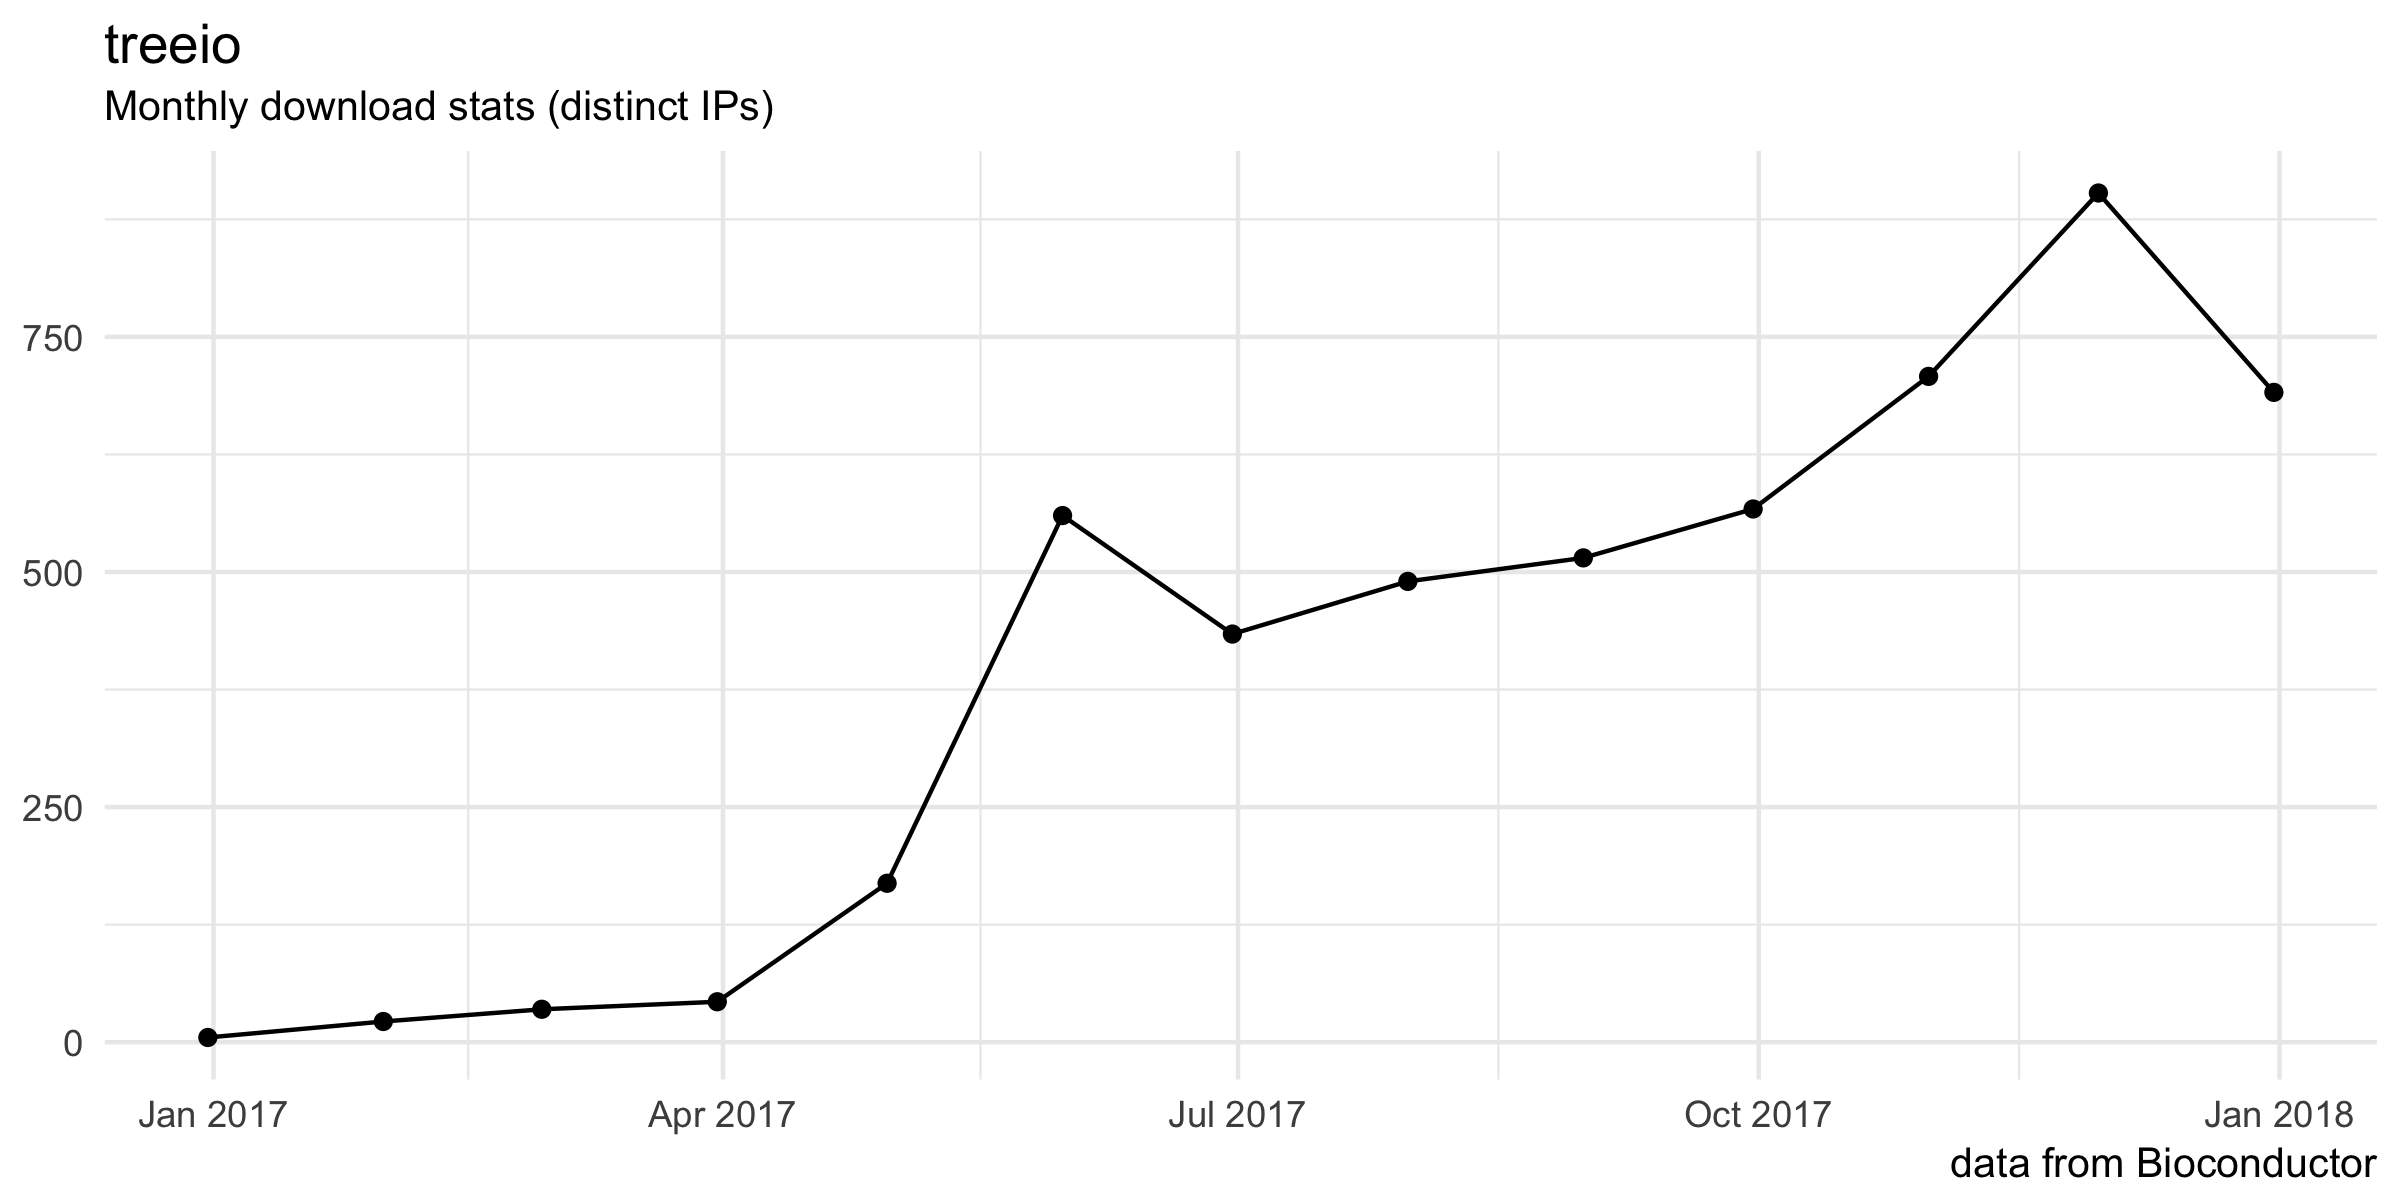
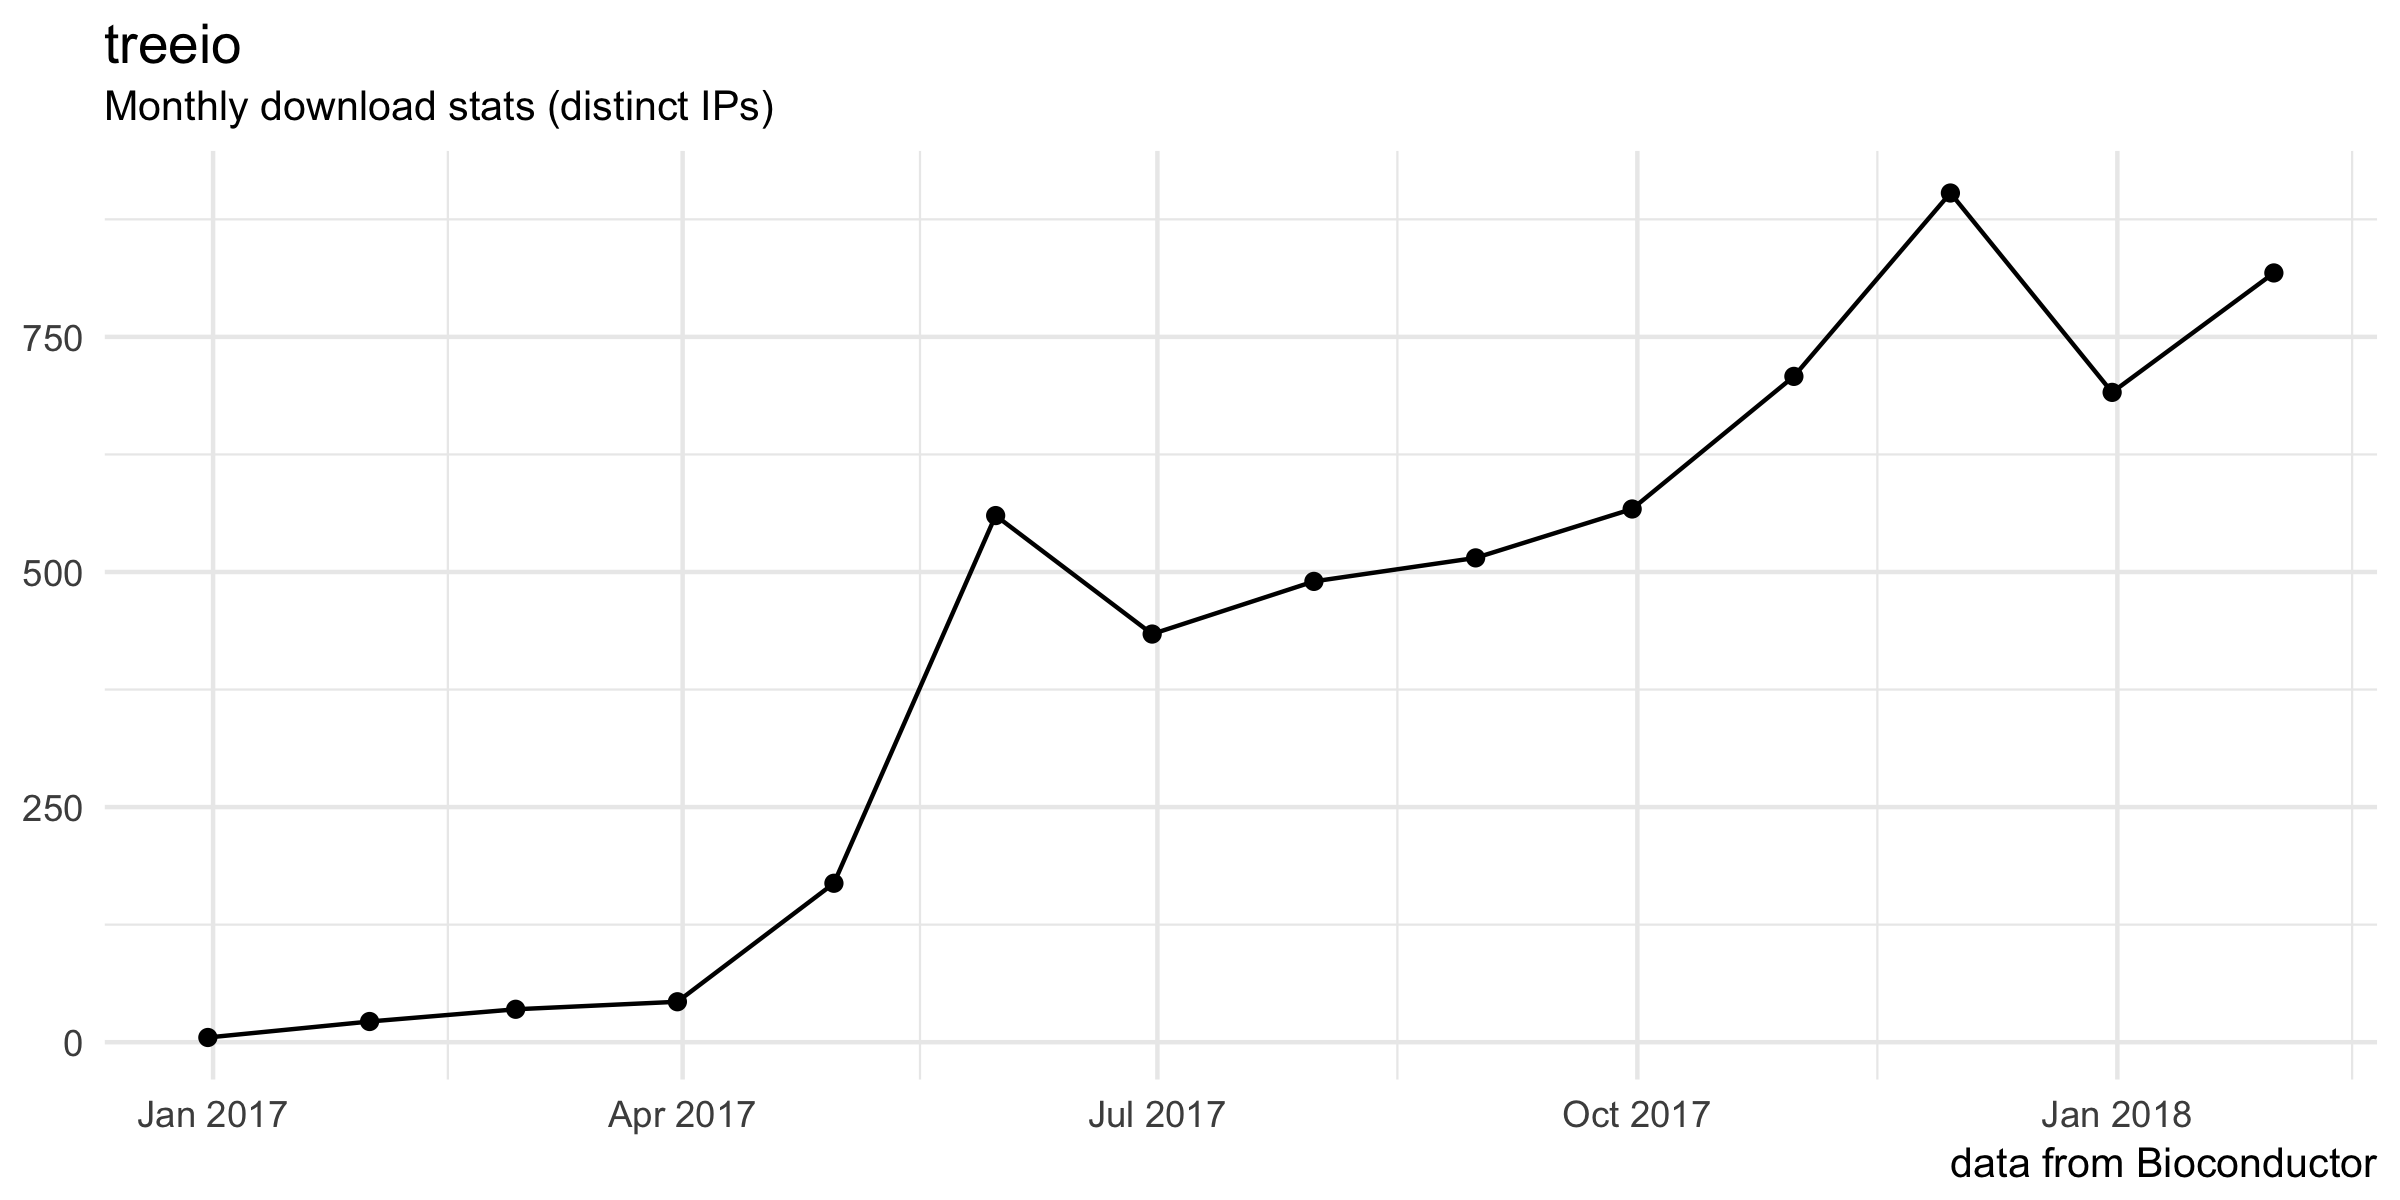
update docs

diff --git a/docs/index.html b/docs/index.html
@@ -9,7 +9,7 @@
     <meta charset="utf-8">
     <meta name="viewport" content="width=device-width,user-scalable=no,initial-scale=1,maximum-scale=1">
     <meta http-equiv="X-UA-Compatible" content="IE=10" />
-    <title>treeio: Base classes and functions for parsing and exporting phylogenetic tree - treeio</title>
+    <title>treeio</title>
     <meta name="generator" content="Hugo 0.30.2" />
 
     
@@ -69,6 +69,9 @@
     <script src="https://guangchuangyu.github.io/treeio/javascripts/modernizr.js"></script>
 
     
+    <link href="https://guangchuangyu.github.io/treeio/index.xml" rel="alternate" type="application/rss+xml" title="treeio" />
+    <link href="https://guangchuangyu.github.io/treeio/index.xml" rel="feed" type="application/rss+xml" title="treeio" />
+    
 
   </head>
   <body class="palette-primary-teal palette-accent-teal">
@@ -97,7 +100,7 @@
     </div>
     <div class="stretch">
       <div class="title">
-        treeio: Base classes and functions for parsing and exporting phylogenetic tree
+        treeio
       </div>
     </div>
 
@@ -251,7 +254,7 @@
         </ul>
         
         <center><span class="zaln"><a href="https://guangchuangyu.github.io/2017/11/bmc-journal-protects-paper-of-plagiarism/" class="zb">Plea to against BMC</a></span></center>
-        <center><span class="zaln"><a href="https://mp.weixin.qq.com/s?__biz=MzI5NjUyNzkxMg==&mid=2247484170&idx=1&sn=ce5f7eb6df66d79661276a64bf25b4bc&chksm=ec43b24ddb343b5b2877574153aeccd049a6824716063883edb35c2338bd32c067caf3885f53#rd" class="zb">赞赏</a></span></center>
+        <center><span class="zaln"><a href="https://guangchuangyu.github.io/blog_images/pay_qrcode.png" class="zb">赞赏</a></span></center>
         <div style="width:250px;margin:auto;"><script type="text/javascript" src="//rf.revolvermaps.com/0/0/7.js?i=5qpvv5zz7fp&amp;m=0&amp;c=ff0000&amp;cr1=ffffff&amp;sx=0" async="async"></script></div>
       </div>
     </div>
@@ -262,11 +265,12 @@
 
 	<article class="article">
 		<div class="wrapper">
-			<h1>treeio: Base classes and functions for parsing and exporting phylogenetic tree </h1>
+			
+				<h1>treeio: Base classes and functions for parsing and exporting phylogenetic tree </h1>
 
-			<p><link rel="stylesheet" href="https://guangchuangyu.github.io/css/font-awesome.min.css"> <link rel="stylesheet" href="https://guangchuangyu.github.io/css/academicons.min.css"></p>
+				<p><link rel="stylesheet" href="https://guangchuangyu.github.io/css/font-awesome.min.css"> <link rel="stylesheet" href="https://guangchuangyu.github.io/css/academicons.min.css"></p>
 <p><img src="https://raw.githubusercontent.com/Bioconductor/BiocStickers/master/treeio/treeio.png" height="200" align="right" /></p>
-<p><a href="https://bioconductor.org/packages/treeio"><img src="https://img.shields.io/badge/release%20version-1.2.1-blue.svg?style=flat" alt="releaseVersion" /></a> <a href="https://github.com/guangchuangyu/treeio"><img src="https://img.shields.io/badge/devel%20version-1.3.11-blue.svg?style=flat" alt="develVersion" /></a> <a href="https://bioconductor.org/packages/stats/bioc/treeio"><img src="https://img.shields.io/badge/downloads-5283/total-blue.svg?style=flat" alt="total" /></a> <a href="https://bioconductor.org/packages/stats/bioc/treeio"><img src="https://img.shields.io/badge/downloads-691/month-blue.svg?style=flat" alt="month" /></a></p>
+<p><a href="https://bioconductor.org/packages/treeio"><img src="https://img.shields.io/badge/release%20version-1.2.1-blue.svg?style=flat" alt="releaseVersion" /></a> <a href="https://github.com/guangchuangyu/treeio"><img src="https://img.shields.io/badge/devel%20version-1.3.11-blue.svg?style=flat" alt="develVersion" /></a> <a href="https://bioconductor.org/packages/stats/bioc/treeio"><img src="https://img.shields.io/badge/downloads-6430/total-blue.svg?style=flat" alt="total" /></a> <a href="https://bioconductor.org/packages/stats/bioc/treeio"><img src="https://img.shields.io/badge/downloads-818/month-blue.svg?style=flat" alt="month" /></a></p>
 <p>The <code>treeio</code> package defines classes and functions for parsing and exporting phylogenetic trees. <em>treeio</em> is released within the <a href="https://bioconductor.org/packages/treeio/">Bioconductor</a> project and the source code is hosted on <a href="https://github.com/GuangchuangYu/treeio"><i class="fa fa-github fa-lg"></i> GitHub</a>.</p>
 <div id="authors" class="section level2">
 <h2><i class="fa fa-user"></i> Authors</h2>
@@ -276,7 +280,7 @@
 <div id="citation" class="section level2">
 <h2><i class="fa fa-book"></i> Citation</h2>
 <p><code>treeio</code> was splitted from <code>ggtree</code> package, please cite the following article when using <code>treeio</code>:</p>
-<p><a href="http://dx.doi.org/10.1111/2041-210X.12628"><img src="https://img.shields.io/badge/doi-10.1111/2041--210X.12628-blue.svg?style=flat" alt="doi" /></a> <a href="https://www.altmetric.com/details/10533079"><img src="https://img.shields.io/badge/Altmetric-322-blue.svg?style=flat" alt="Altmetric" /></a> <a href="https://scholar.google.com.hk/scholar?oi=bibs&amp;hl=en&amp;cites=7268358477862164627"><img src="https://img.shields.io/badge/cited%20by-66-blue.svg?style=flat" alt="citation" /></a></p>
+<p><a href="http://dx.doi.org/10.1111/2041-210X.12628"><img src="https://img.shields.io/badge/doi-10.1111/2041--210X.12628-blue.svg?style=flat" alt="doi" /></a> <a href="https://www.altmetric.com/details/10533079"><img src="https://img.shields.io/badge/Altmetric-326-blue.svg?style=flat" alt="Altmetric" /></a> <a href="https://scholar.google.com.hk/scholar?oi=bibs&amp;hl=en&amp;cites=7268358477862164627"><img src="https://img.shields.io/badge/cited%20by-85-blue.svg?style=flat" alt="citation" /></a></p>
 <p><strong>G Yu</strong>, DK Smith, H Zhu, Y Guan, TTY Lam<sup>*</sup>. ggtree: an R package for visualization and annotation of phylogenetic trees with their covariates and other associated data. <strong><em>Methods in Ecology and Evolution</em></strong>. 2017, 8(1):28-36.</p>
 <!--
 ## <i class="fa fa-pencil"></i> Featured Articles
@@ -362,6 +366,7 @@ biocLite(&quot;treeio&quot;)</code></pre>
 </ul>
 </div>
 
+			
 
 			<aside class="copyright" role="note">
 				
@@ -376,13 +381,16 @@ biocLite(&quot;treeio&quot;)</code></pre>
 			<footer class="footer">
 				
 
+
+
 <nav class="pagination" aria-label="Footer">
   <div class="previous">
-  
   </div>
 
-  <div class="next">
   
+  
+
+  <div class="next">
       <a href="https://guangchuangyu.github.io/treeio/documentation/" title="Documentation">
         <span class="direction">
           Next
@@ -398,11 +406,8 @@ biocLite(&quot;treeio&quot;)</code></pre>
           </div>
         </div>
       </a>
-  
   </div>
 </nav>
-
-
 
 
 
@@ -503,11 +508,6 @@ biocLite(&quot;treeio&quot;)</code></pre>
     
 
     <script src="//cdnjs.cloudflare.com/ajax/libs/highlight.js/9.8.0/highlight.min.js"></script>
-    <script>hljs.initHighlightingOnLoad();</script>
-  </body>
-</html>
-
-.js/9.8.0/highlight.min.js"></script>
     <script>hljs.initHighlightingOnLoad();</script>
   </body>
 </html>

diff --git a/site_src/content/index.html b/site_src/content/index.html
@@ -9,7 +9,7 @@ weight: 1
 
 <p><link rel="stylesheet" href="https://guangchuangyu.github.io/css/font-awesome.min.css"> <link rel="stylesheet" href="https://guangchuangyu.github.io/css/academicons.min.css"></p>
 <p><img src="https://raw.githubusercontent.com/Bioconductor/BiocStickers/master/treeio/treeio.png" height="200" align="right" /></p>
-<p><a href="https://bioconductor.org/packages/treeio"><img src="https://img.shields.io/badge/release%20version-1.2.1-blue.svg?style=flat" alt="releaseVersion" /></a> <a href="https://github.com/guangchuangyu/treeio"><img src="https://img.shields.io/badge/devel%20version-1.3.11-blue.svg?style=flat" alt="develVersion" /></a> <a href="https://bioconductor.org/packages/stats/bioc/treeio"><img src="https://img.shields.io/badge/downloads-5283/total-blue.svg?style=flat" alt="total" /></a> <a href="https://bioconductor.org/packages/stats/bioc/treeio"><img src="https://img.shields.io/badge/downloads-691/month-blue.svg?style=flat" alt="month" /></a></p>
+<p><a href="https://bioconductor.org/packages/treeio"><img src="https://img.shields.io/badge/release%20version-1.2.1-blue.svg?style=flat" alt="releaseVersion" /></a> <a href="https://github.com/guangchuangyu/treeio"><img src="https://img.shields.io/badge/devel%20version-1.3.11-blue.svg?style=flat" alt="develVersion" /></a> <a href="https://bioconductor.org/packages/stats/bioc/treeio"><img src="https://img.shields.io/badge/downloads-6430/total-blue.svg?style=flat" alt="total" /></a> <a href="https://bioconductor.org/packages/stats/bioc/treeio"><img src="https://img.shields.io/badge/downloads-818/month-blue.svg?style=flat" alt="month" /></a></p>
 <p>The <code>treeio</code> package defines classes and functions for parsing and exporting phylogenetic trees. <em>treeio</em> is released within the <a href="https://bioconductor.org/packages/treeio/">Bioconductor</a> project and the source code is hosted on <a href="https://github.com/GuangchuangYu/treeio"><i class="fa fa-github fa-lg"></i> GitHub</a>.</p>
 <div id="authors" class="section level2">
 <h2><i class="fa fa-user"></i> Authors</h2>
@@ -19,7 +19,7 @@ weight: 1
 <div id="citation" class="section level2">
 <h2><i class="fa fa-book"></i> Citation</h2>
 <p><code>treeio</code> was splitted from <code>ggtree</code> package, please cite the following article when using <code>treeio</code>:</p>
-<p><a href="http://dx.doi.org/10.1111/2041-210X.12628"><img src="https://img.shields.io/badge/doi-10.1111/2041--210X.12628-blue.svg?style=flat" alt="doi" /></a> <a href="https://www.altmetric.com/details/10533079"><img src="https://img.shields.io/badge/Altmetric-322-blue.svg?style=flat" alt="Altmetric" /></a> <a href="https://scholar.google.com.hk/scholar?oi=bibs&amp;hl=en&amp;cites=7268358477862164627"><img src="https://img.shields.io/badge/cited%20by-66-blue.svg?style=flat" alt="citation" /></a></p>
+<p><a href="http://dx.doi.org/10.1111/2041-210X.12628"><img src="https://img.shields.io/badge/doi-10.1111/2041--210X.12628-blue.svg?style=flat" alt="doi" /></a> <a href="https://www.altmetric.com/details/10533079"><img src="https://img.shields.io/badge/Altmetric-326-blue.svg?style=flat" alt="Altmetric" /></a> <a href="https://scholar.google.com.hk/scholar?oi=bibs&amp;hl=en&amp;cites=7268358477862164627"><img src="https://img.shields.io/badge/cited%20by-85-blue.svg?style=flat" alt="citation" /></a></p>
 <p><strong>G Yu</strong>, DK Smith, H Zhu, Y Guan, TTY Lam<sup>*</sup>. ggtree: an R package for visualization and annotation of phylogenetic trees with their covariates and other associated data. <strong><em>Methods in Ecology and Evolution</em></strong>. 2017, 8(1):28-36.</p>
 <!--
 ## <i class="fa fa-pencil"></i> Featured Articles

diff --git a/docs/documentation/index.html b/docs/documentation/index.html
@@ -254,7 +254,7 @@
         </ul>
         
         <center><span class="zaln"><a href="https://guangchuangyu.github.io/2017/11/bmc-journal-protects-paper-of-plagiarism/" class="zb">Plea to against BMC</a></span></center>
-        <center><span class="zaln"><a href="https://mp.weixin.qq.com/s?__biz=MzI5NjUyNzkxMg==&mid=2247484170&idx=1&sn=ce5f7eb6df66d79661276a64bf25b4bc&chksm=ec43b24ddb343b5b2877574153aeccd049a6824716063883edb35c2338bd32c067caf3885f53#rd" class="zb">赞赏</a></span></center>
+        <center><span class="zaln"><a href="https://guangchuangyu.github.io/blog_images/pay_qrcode.png" class="zb">赞赏</a></span></center>
         <div style="width:250px;margin:auto;"><script type="text/javascript" src="//rf.revolvermaps.com/0/0/7.js?i=5qpvv5zz7fp&amp;m=0&amp;c=ff0000&amp;cr1=ffffff&amp;sx=0" async="async"></script></div>
       </div>
     </div>
@@ -277,9 +277,6 @@
 </div>
 <div id="blog-posts" class="section level2">
 <h2><i class="fa fa-wordpress"></i> Blog posts</h2>
-<div id="news-and-updates" class="section level3">
-<h3><i class="fa fa-angle-double-right"></i> News and updates</h3>
-</div>
 <div id="object-conversion" class="section level3">
 <h3><i class="fa fa-angle-double-right"></i> object conversion</h3>
 <ul>

diff --git a/site_src/content/documentation/index.html b/site_src/content/documentation/index.html
@@ -16,9 +16,6 @@ weight: 10
 </div>
 <div id="blog-posts" class="section level2">
 <h2><i class="fa fa-wordpress"></i> Blog posts</h2>
-<div id="news-and-updates" class="section level3">
-<h3><i class="fa fa-angle-double-right"></i> News and updates</h3>
-</div>
 <div id="object-conversion" class="section level3">
 <h3><i class="fa fa-angle-double-right"></i> object conversion</h3>
 <ul>

diff --git a/README.md b/README.md
@@ -6,7 +6,7 @@ treeio: Base classes and functions for phylogenetic tree input and output
 
 [![releaseVersion](https://img.shields.io/badge/release%20version-1.2.1-green.svg?style=flat)](https://bioconductor.org/packages/treeio) [![develVersion](https://img.shields.io/badge/devel%20version-1.3.11-green.svg?style=flat)](https://github.com/guangchuangyu/treeio) [![Bioc](http://www.bioconductor.org/shields/years-in-bioc/treeio.svg)](https://www.bioconductor.org/packages/devel/bioc/html/treeio.html#since) [![](https://badges.ropensci.org/179_status.svg)](https://github.com/ropensci/onboarding/issues/179)
 
-[![Project Status: Active - The project has reached a stable, usable state and is being actively developed.](http://www.repostatus.org/badges/latest/active.svg)](http://www.repostatus.org/#active) [![codecov](https://codecov.io/gh/GuangchuangYu/treeio/branch/master/graph/badge.svg)](https://codecov.io/gh/GuangchuangYu/treeio) [![Last-changedate](https://img.shields.io/badge/last%20change-2018--01--12-green.svg)](https://github.com/GuangchuangYu/treeio/commits/master) [![GitHub forks](https://img.shields.io/github/forks/GuangchuangYu/treeio.svg)](https://github.com/GuangchuangYu/treeio/network) [![GitHub stars](https://img.shields.io/github/stars/GuangchuangYu/treeio.svg)](https://github.com/GuangchuangYu/treeio/stargazers)
+[![Project Status: Active - The project has reached a stable, usable state and is being actively developed.](http://www.repostatus.org/badges/latest/active.svg)](http://www.repostatus.org/#active) [![codecov](https://codecov.io/gh/GuangchuangYu/treeio/branch/master/graph/badge.svg)](https://codecov.io/gh/GuangchuangYu/treeio) [![Last-changedate](https://img.shields.io/badge/last%20change-2018--02--23-green.svg)](https://github.com/GuangchuangYu/treeio/commits/master) [![GitHub forks](https://img.shields.io/github/forks/GuangchuangYu/treeio.svg)](https://github.com/GuangchuangYu/treeio/network) [![GitHub stars](https://img.shields.io/github/stars/GuangchuangYu/treeio.svg)](https://github.com/GuangchuangYu/treeio/stargazers)
 
 [![platform](http://www.bioconductor.org/shields/availability/devel/treeio.svg)](https://www.bioconductor.org/packages/devel/bioc/html/treeio.html#archives) [![Build Status](http://www.bioconductor.org/shields/build/devel/bioc/treeio.svg)](https://bioconductor.org/checkResults/devel/bioc-LATEST/treeio/) [![Linux/Mac Travis Build Status](https://img.shields.io/travis/GuangchuangYu/treeio/master.svg?label=Mac%20OSX%20%26%20Linux)](https://travis-ci.org/GuangchuangYu/treeio) [![AppVeyor Build Status](https://img.shields.io/appveyor/ci/Guangchuangyu/treeio/master.svg?label=Windows)](https://ci.appveyor.com/project/GuangchuangYu/treeio) [![Twitter](https://img.shields.io/twitter/url/https/github.com/GuangchuangYu/treeio.svg?style=social)](https://twitter.com/intent/tweet?hashtags=treeio&url=http://onlinelibrary.wiley.com/doi/10.1111/2041-210X.12628/abstract&screen_name=guangchuangyu)
 
@@ -49,6 +49,6 @@ For details, please visit our project website, <https://guangchuangyu.github.io/
 Download stats
 --------------
 
-[![download](http://www.bioconductor.org/shields/downloads/treeio.svg)](https://bioconductor.org/packages/stats/bioc/treeio) [![total](https://img.shields.io/badge/downloads-5283/total-blue.svg?style=flat)](https://bioconductor.org/packages/stats/bioc/treeio) [![month](https://img.shields.io/badge/downloads-691/month-blue.svg?style=flat)](https://bioconductor.org/packages/stats/bioc/treeio)
+[![download](http://www.bioconductor.org/shields/downloads/treeio.svg)](https://bioconductor.org/packages/stats/bioc/treeio) [![total](https://img.shields.io/badge/downloads-6430/total-blue.svg?style=flat)](https://bioconductor.org/packages/stats/bioc/treeio) [![month](https://img.shields.io/badge/downloads-818/month-blue.svg?style=flat)](https://bioconductor.org/packages/stats/bioc/treeio)
 
 <img src="docs/images/dlstats.png" width="890"/>
